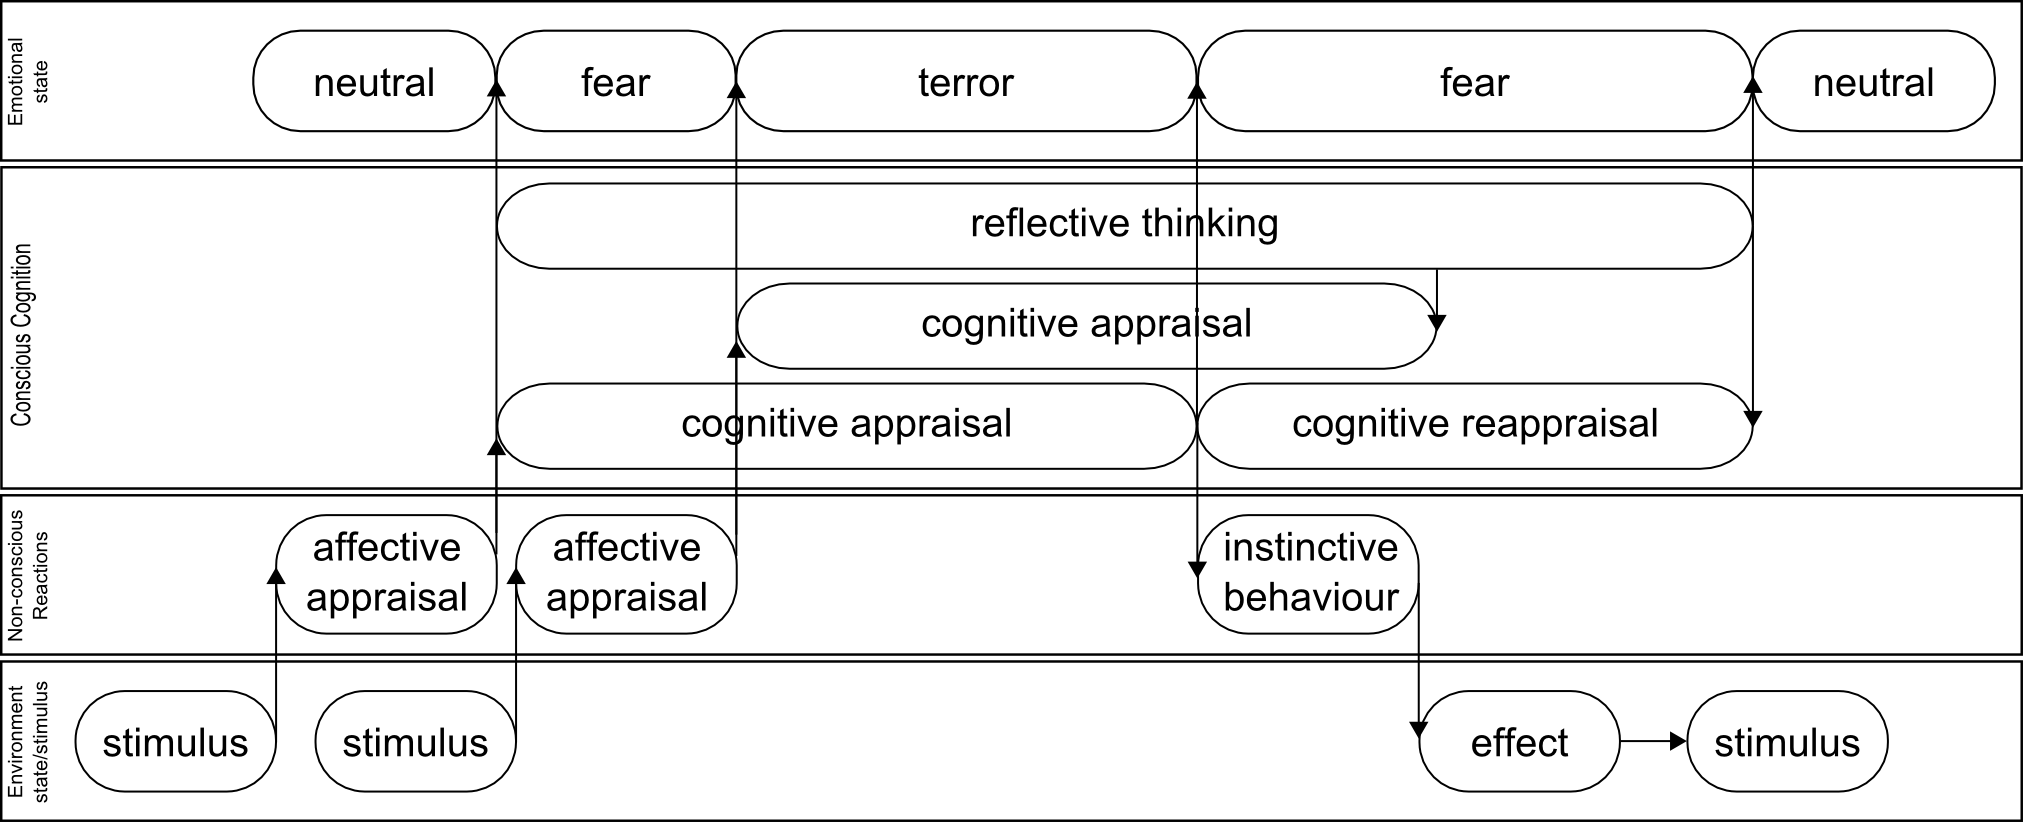
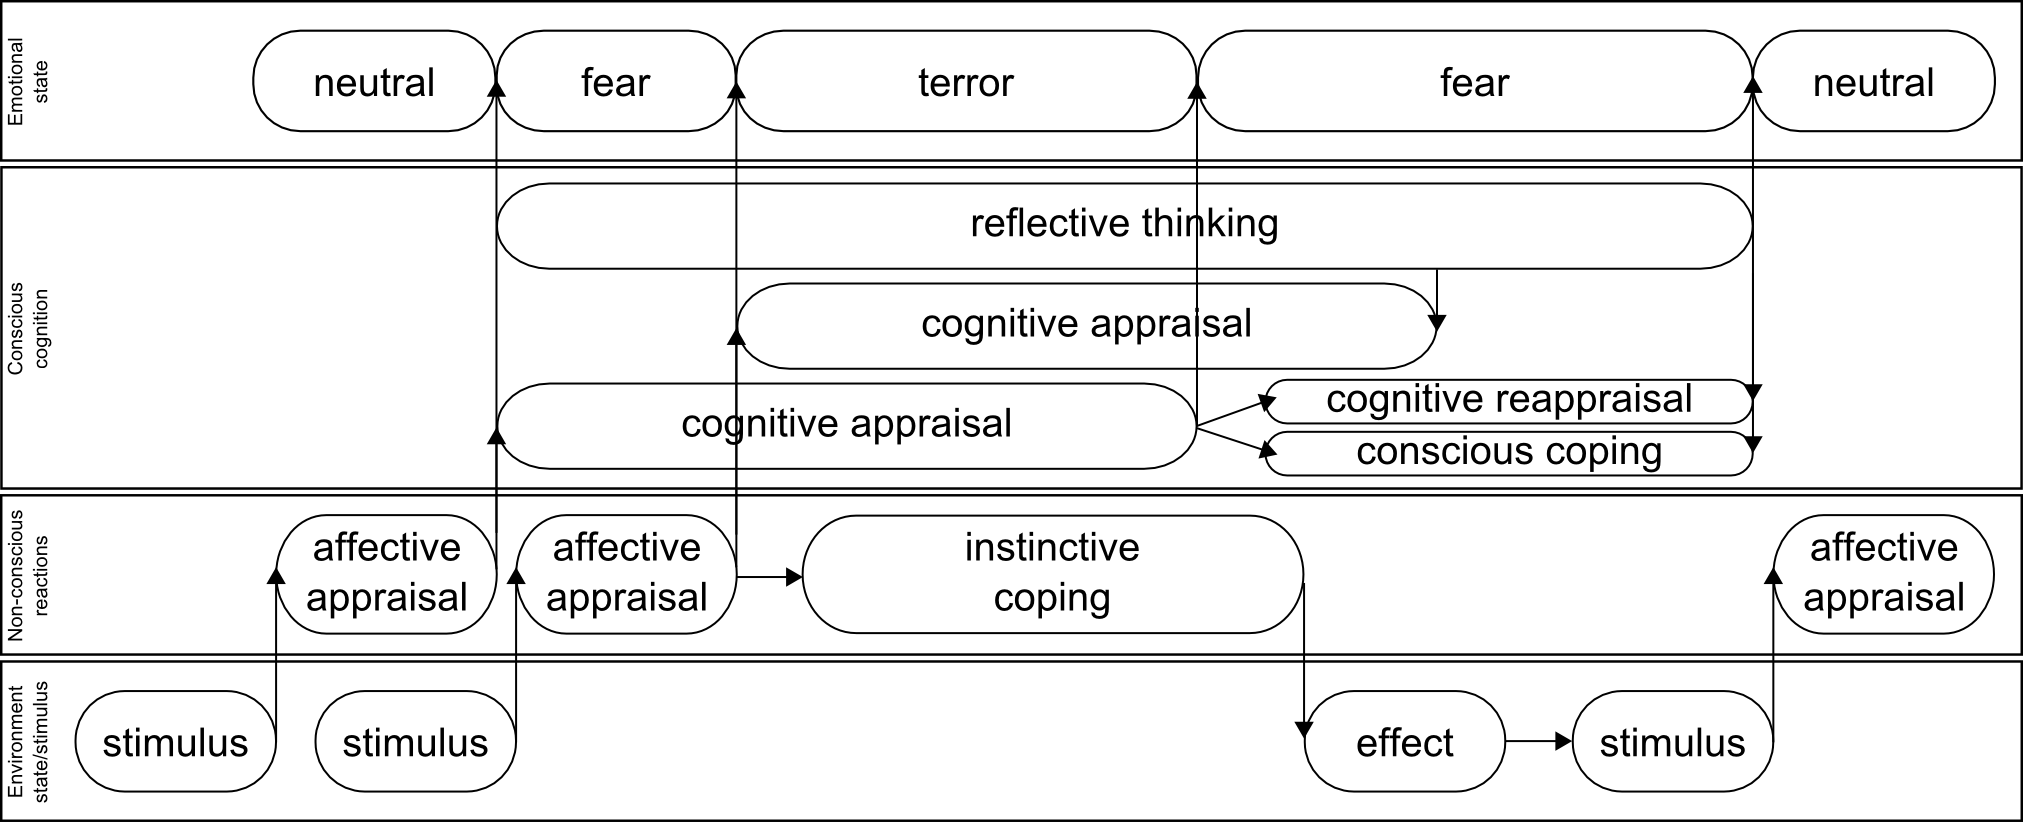
updated orchestra of emotions diagram

diff --git a/doc/emotions/affective and appraisal aspects/affective_appraisal_and_coping_aspecs.md b/doc/emotions/affective and appraisal aspects/affective_appraisal_and_coping_aspecs.md
@@ -8,9 +8,9 @@ Imagine the number of emotions we experience every day, starting from wake up in
 
 ![orchestra of emotions](orchestra_of_emotions.png)
 
-Each time any stimulus comes in view it is been appraised first non-consciously then consciously and could start high level reflective thinking.
+Each time any stimulus comes in view it is been appraised first non-consciously then consciously and then could start high level reflective thinking. First stimulus triggers affective appraisal that in its turn triggers switches emotional state from neutral to fear and triggers cognitive appraisal and reflective thinking. Second stimulus triggers affective appraisal again and switches emotional state of the system to terror and triggers second cognitive appraisal. Then first cognitive appraisal switches emotional state from terror to fear (system understood that stimulus is not so horrible as it seemed firstly) and triggers cognitive coping behaviour and cognitive reappraisal.
 
-Fear 2 times.
+
 
 ##Appraisal aspect
 
